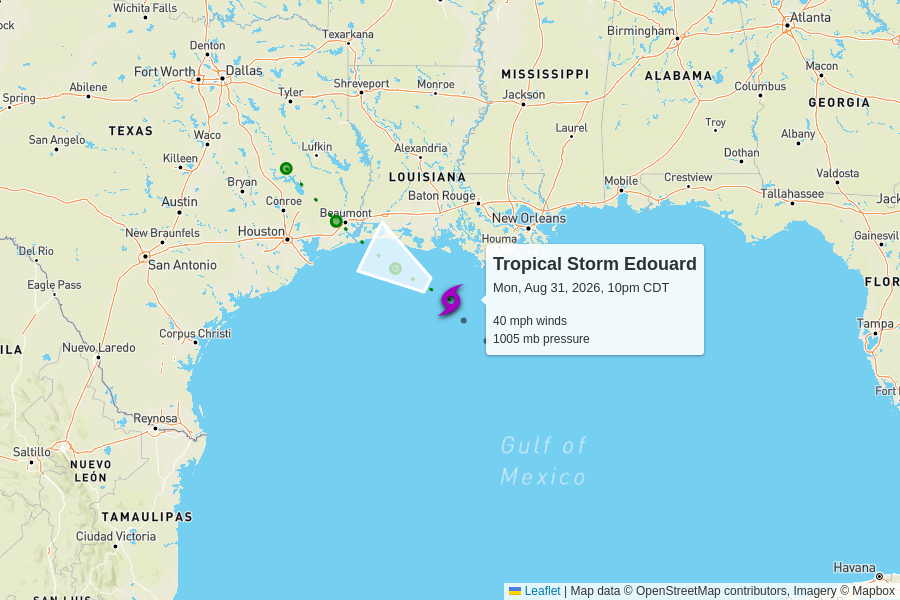
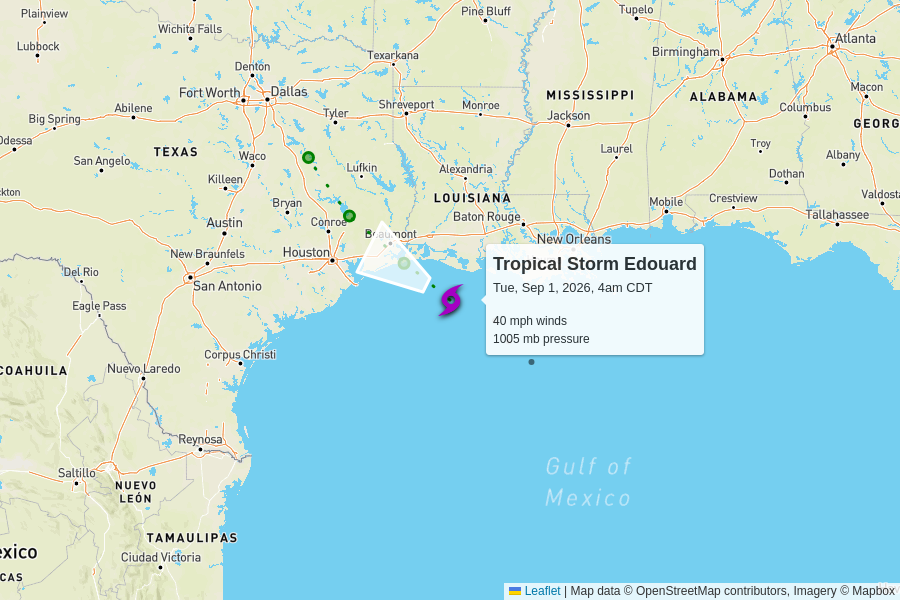
automatic update

diff --git a/docs/2026.html b/docs/2026.html
@@ -45,13 +45,13 @@
       <grid-container>
           <grid-row>
             <script type="text/json" id="storm_data_AL052026">
-              {"pressure":[{"timestamp":"2026-08-31T15:00:00.000Z","value":1013},{"timestamp":"2026-08-31T21:00:00.000Z","value":1011},{"timestamp":"2026-09-01T03:00:00.000Z","value":1005}],"wind":[{"timestamp":"2026-08-31T15:00:00.000Z","value":35},{"timestamp":"2026-08-31T21:00:00.000Z","value":35},{"timestamp":"2026-09-01T03:00:00.000Z","value":40}]}
+              {"pressure":[{"timestamp":"2026-08-31T15:00:00.000Z","value":1013},{"timestamp":"2026-08-31T21:00:00.000Z","value":1011},{"timestamp":"2026-09-01T03:00:00.000Z","value":1005},{"timestamp":"2026-09-01T09:00:00.000Z","value":1005}],"wind":[{"timestamp":"2026-08-31T15:00:00.000Z","value":35},{"timestamp":"2026-08-31T21:00:00.000Z","value":35},{"timestamp":"2026-09-01T03:00:00.000Z","value":40},{"timestamp":"2026-09-01T09:00:00.000Z","value":40}]}
             </script>              <grid-container class="storm">
                 <grid-row onClick="toggle('storm_AL052026')">
                   <h2>
                     Tropical Storm Edouard
                     <div class="updated">
-                      last updated <time datetime="2026-09-01T03:00:00.000Z">2026-09-01T03:00:00.000Z</time>
+                      last updated <time datetime="2026-09-01T09:00:00.000Z">2026-09-01T09:00:00.000Z</time>
                     </div>
                   </h2>
                 </grid-row>
@@ -69,15 +69,15 @@
                         <td>
                           40 mph
                           <br>
-                          +5 mph since last update
+                          0 mph since last update
                         </td>
                         <td>
                           1005 mb
                           <br>
-                          -6 mb since last update
+                          0 mb since last update
                         </td>
                         <td>
-                          7 mph to the west-northwest
+                          8 mph to the west-northwest
                           <br>
                           <span style="display: inline-block; font-size: 1.5em; transform: rotate(300deg);">↑</span>
                         </td>

diff --git a/docs/index.html b/docs/index.html
@@ -45,13 +45,13 @@
       <grid-container>
           <grid-row>
             <script type="text/json" id="storm_data_AL052026">
-              {"pressure":[{"timestamp":"2026-08-31T15:00:00.000Z","value":1013},{"timestamp":"2026-08-31T21:00:00.000Z","value":1011},{"timestamp":"2026-09-01T03:00:00.000Z","value":1005}],"wind":[{"timestamp":"2026-08-31T15:00:00.000Z","value":35},{"timestamp":"2026-08-31T21:00:00.000Z","value":35},{"timestamp":"2026-09-01T03:00:00.000Z","value":40}]}
+              {"pressure":[{"timestamp":"2026-08-31T15:00:00.000Z","value":1013},{"timestamp":"2026-08-31T21:00:00.000Z","value":1011},{"timestamp":"2026-09-01T03:00:00.000Z","value":1005},{"timestamp":"2026-09-01T09:00:00.000Z","value":1005}],"wind":[{"timestamp":"2026-08-31T15:00:00.000Z","value":35},{"timestamp":"2026-08-31T21:00:00.000Z","value":35},{"timestamp":"2026-09-01T03:00:00.000Z","value":40},{"timestamp":"2026-09-01T09:00:00.000Z","value":40}]}
             </script>              <grid-container class="storm">
                 <grid-row onClick="toggle('storm_AL052026')">
                   <h2>
                     Tropical Storm Edouard
                     <div class="updated">
-                      last updated <time datetime="2026-09-01T03:00:00.000Z">2026-09-01T03:00:00.000Z</time>
+                      last updated <time datetime="2026-09-01T09:00:00.000Z">2026-09-01T09:00:00.000Z</time>
                     </div>
                   </h2>
                 </grid-row>
@@ -69,15 +69,15 @@
                         <td>
                           40 mph
                           <br>
-                          +5 mph since last update
+                          0 mph since last update
                         </td>
                         <td>
                           1005 mb
                           <br>
-                          -6 mb since last update
+                          0 mb since last update
                         </td>
                         <td>
-                          7 mph to the west-northwest
+                          8 mph to the west-northwest
                           <br>
                           <span style="display: inline-block; font-size: 1.5em; transform: rotate(300deg);">↑</span>
                         </td>
